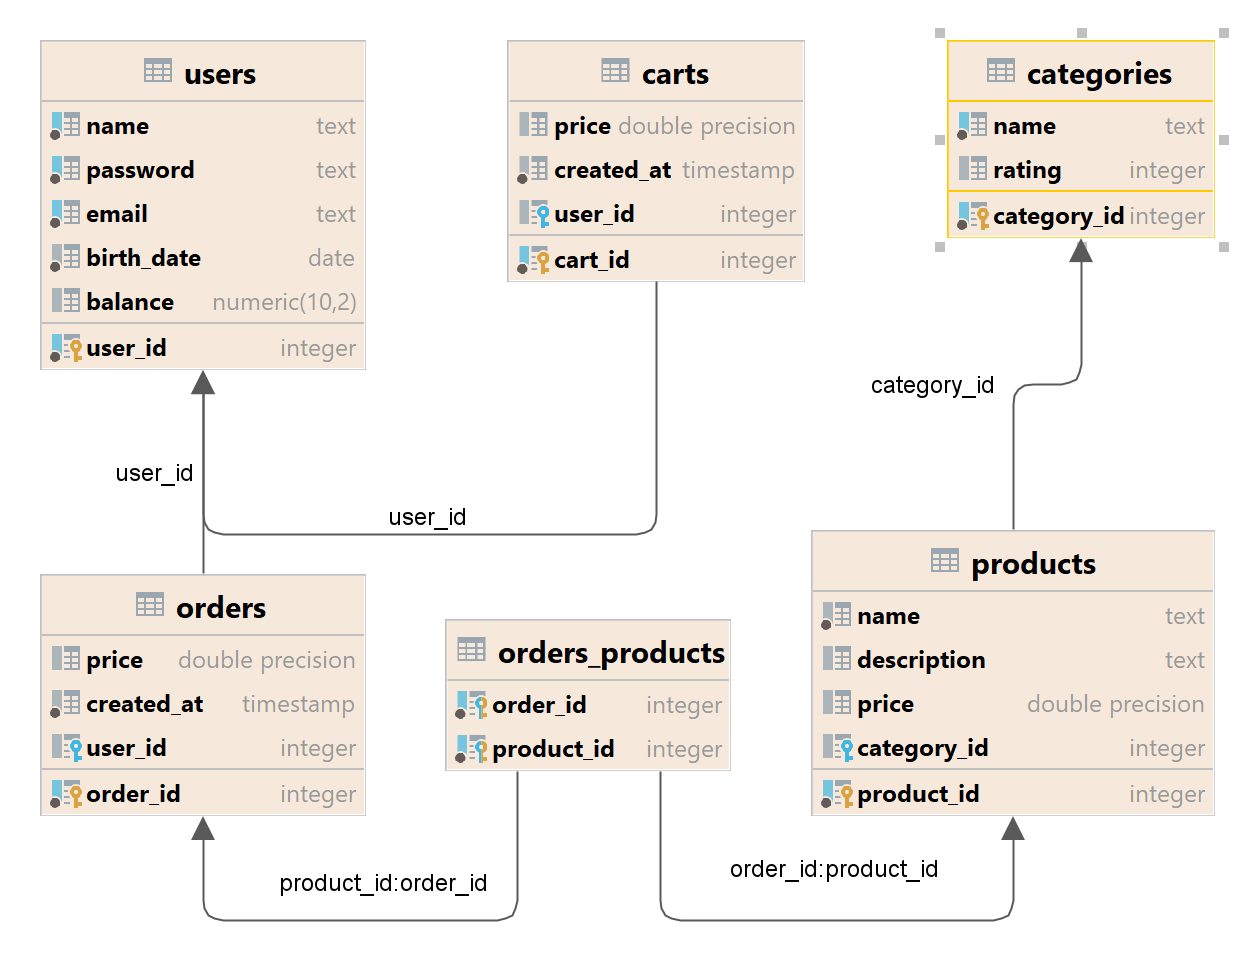
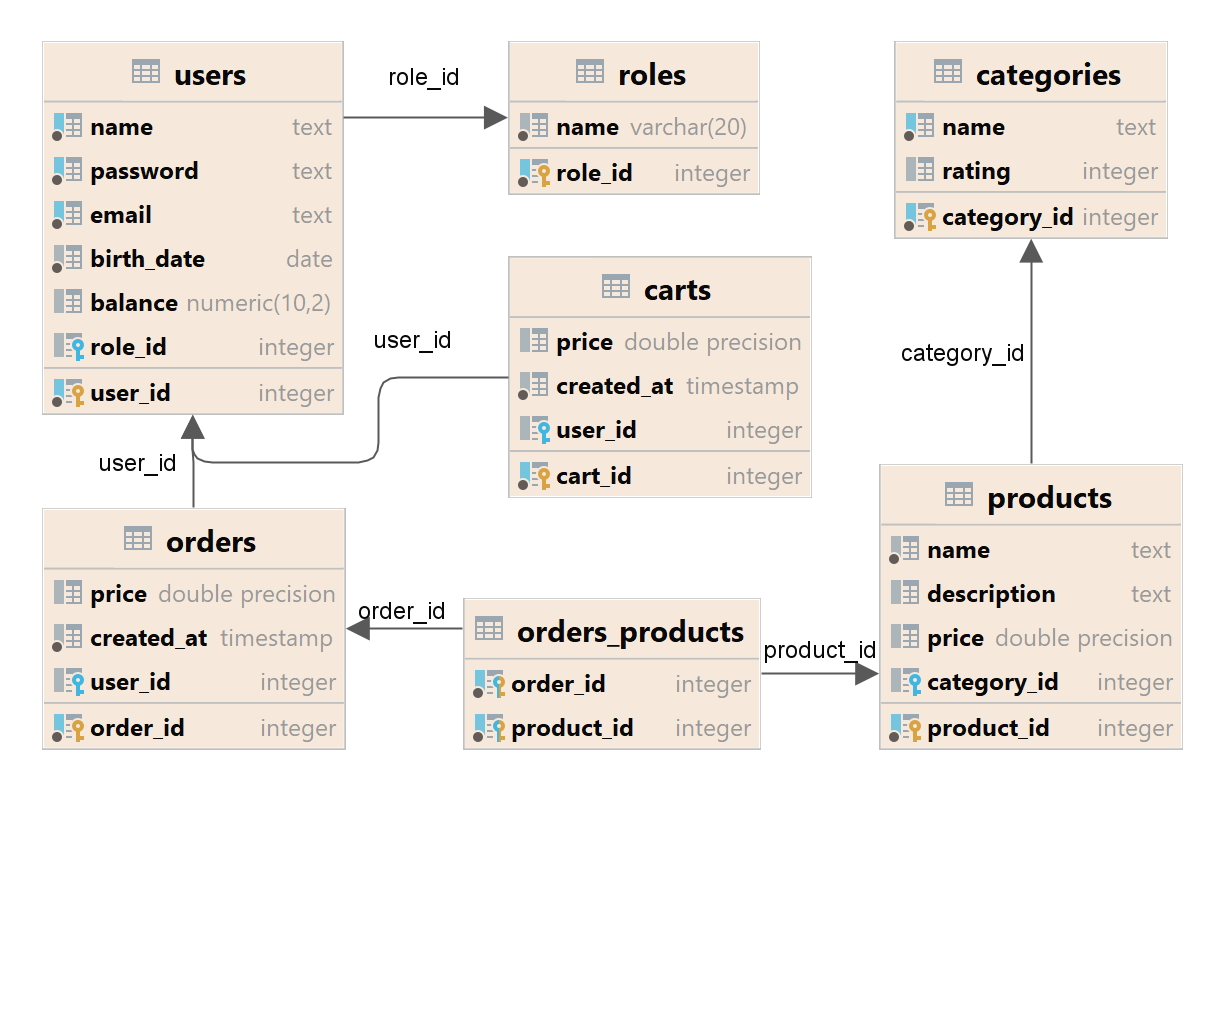
added Spring Security roles :sparkles:

diff --git a/src/main/resources/templates/profile.html b/src/main/resources/templates/profile.html
@@ -14,7 +14,7 @@
     <h2 style="text-align:center">User Profile Card</h2>
     <img src="https://www.w3schools.com/w3images/team2.jpg" alt="John" style="width:100%">
     <span>name: </span>
-    <span sec:authentication="principal.name"></span>
+    <span sec:authentication="principal.username"></span>
     <span>id: </span>
     <span sec:authentication="principal.userId"></span>
     <h6></h6>
@@ -22,7 +22,7 @@
     <span sec:authentication="principal.email"></span>
     <h6></h6>
     <span>role: </span>
-    <span sec:authentication="principal.role.name"></span>
+    <span sec:authentication="principal.role"></span>
     <h6></h6>
     <span>balance: </span>
     <span sec:authentication="principal.balance"></span>

diff --git a/src/main/resources/templates/include/topnav.html b/src/main/resources/templates/include/topnav.html
@@ -9,10 +9,9 @@
         <a class="fa badge fa-5x" href="/logout">&#xf08b Log out</a>
         <a class="fa badge fa-5x" href="/profile">&#xf007 Profile</a>
         <a class="fa badge-cart fa-5x" href="/cart" th:value="${session.cartDto.quantity}">&#xf07a Cart</a>
-        <a class="fa badge fa-5x" href="/admin">Admin</a>
     </div>
     <div sec:authorize="hasRole('ADMIN')">
-        <a class="fa badge fa-5x" href="/admin">Admin Role</a>
+        <a class="fa badge fa-5x" href="/admin">Admin</a>
     </div>
     <div class="search-container">
         <form class="search-form" th:action="@{/product/search}">

diff --git a/src/main/resources/templates/order.html b/src/main/resources/templates/order.html
@@ -14,7 +14,7 @@
 <div class="order-content">
     <h1 th:text="${order.orderId}">Order</h1>
     <h3 th:text="${order.createdAt}">createdAt</h3>
-    <h3 sec:authentication="principal.name">Name</h3>
+    <h3 sec:authentication="principal.username">Name</h3>
 
     <div class="header">
         <label class="product-image">Image</label>

diff --git a/src/main/java/by/petrovich/eshop/entity/model/CustomUserDetail.java b/src/main/java/by/petrovich/eshop/entity/model/CustomUserDetail.java
@@ -1,0 +1,74 @@
+package by.petrovich.eshop.entity.model;
+
+import by.petrovich.eshop.entity.User;
+import org.springframework.security.core.GrantedAuthority;
+import org.springframework.security.core.authority.SimpleGrantedAuthority;
+import org.springframework.security.core.userdetails.UserDetails;
+
+import java.math.BigDecimal;
+import java.time.LocalDate;
+import java.util.Collection;
+import java.util.Collections;
+
+public class CustomUserDetail implements UserDetails {
+    private final User user;
+
+    public CustomUserDetail(User user) {
+        this.user = user;
+    }
+
+    @Override
+    public Collection<? extends GrantedAuthority> getAuthorities() {
+        return Collections.singletonList(new SimpleGrantedAuthority(user.getRole().getName()));
+    }
+
+    @Override
+    public String getPassword() {
+        return user.getPassword();
+    }
+
+    @Override
+    public String getUsername() {
+        return user.getName();
+    }
+
+    @Override
+    public boolean isAccountNonExpired() {
+        return true;
+    }
+
+    @Override
+    public boolean isAccountNonLocked() {
+        return true;
+    }
+
+    @Override
+    public boolean isCredentialsNonExpired() {
+        return true;
+    }
+
+    @Override
+    public boolean isEnabled() {
+        return true;
+    }
+
+    public Integer getUserId() {
+        return user.getUserId();
+    }
+
+    public String getEmail() {
+        return user.getEmail();
+    }
+
+    public String getRole() {
+        return user.getRole().getName();
+    }
+
+    public BigDecimal getBalance() {
+        return user.getBalance();
+    }
+
+    public LocalDate getBirthDate() {
+        return user.getBirthDate();
+    }
+}

diff --git a/src/main/java/by/petrovich/eshop/service/impl/UserServiceImpl.java b/src/main/java/by/petrovich/eshop/service/impl/UserServiceImpl.java
@@ -6,7 +6,7 @@ import by.petrovich.eshop.entity.User;
 import by.petrovich.eshop.exceptions.UserNotFoundException;
 import by.petrovich.eshop.repository.RoleRepository;
 import by.petrovich.eshop.repository.UserRepository;
-import by.petrovich.eshop.security.CustomUserDetails;
+import by.petrovich.eshop.entity.model.CustomUserDetail;
 import by.petrovich.eshop.service.UserService;
 import org.springframework.beans.factory.annotation.Autowired;
 import org.springframework.security.authentication.BadCredentialsException;
@@ -58,16 +58,7 @@ public class UserServiceImpl implements UserService, UserDetailsService {
     public UserDetails loadUserByUsername(String name) throws UserNotFoundException {
         User user = userRepository.findByName(name).orElseThrow(()
                 -> new UserNotFoundException("User not found"));
-        return new CustomUserDetails(
-                user.getUserId(),
-                user.getName(),
-                user.getPassword(),
-                user.getEmail(),
-                user.getBirthDate(),
-                user.getBalance(),
-                user.getOrders(),
-                user.getRole()
-        );
+        return new CustomUserDetail(user);
     }
 
     private boolean isExist(String email) {

diff --git a/README.md b/README.md
@@ -57,11 +57,16 @@ by providing a user-friendly interface and incorporating the latest Java technol
   <summary>Show</summary>
   <ul>
     <li><a>Java 17</a></li>
-    <li><a>Spring boot</a></li>
+    <li><a>Spring 3.0.6</a></li>
     <li><a>Maven 3.8.1</a></li>
     <li><a>Postgresql 42.6.0</a></li>
     <li><a>Lombok 1.18.24</a></li>
     <li><a>Modelmapper 3.1.1</a></li>
+    <li><a>FlyWay 9.19.1</a></li>
+    <li><a>ThymeLeaf 3.0.6</a></li>
+    <li><a>Hibernate 6.1.7</a></li>
+    <li><a>Spring data JPA 3.0.5</a></li>
+    <li><a>JUnit 5</a></li>
   </ul>
 </details>
 
@@ -86,7 +91,7 @@ to populate the database tables.
 <!-- Database struct -->
 ### :key: Database structure
 
-![DB_structure](src/main/resources/static/st/img/DB_structure.png)
+![DB_structure](src/main/resources/static/img/DB_structure.png)
 
 <!-- Roadmap -->
 ## :compass: roadmap:
@@ -106,6 +111,8 @@ to populate the database tables.
 * [x] add the ability to view the list of products of each user order
 * [x] add admin page with user's list
 * [x] add Spring Security with In-Memory Authentication
+* [x] add Spring Security authentication form Login custom page with Database
+* [x] add Spring Security roles
 
 ## :handshake: Contact
 
